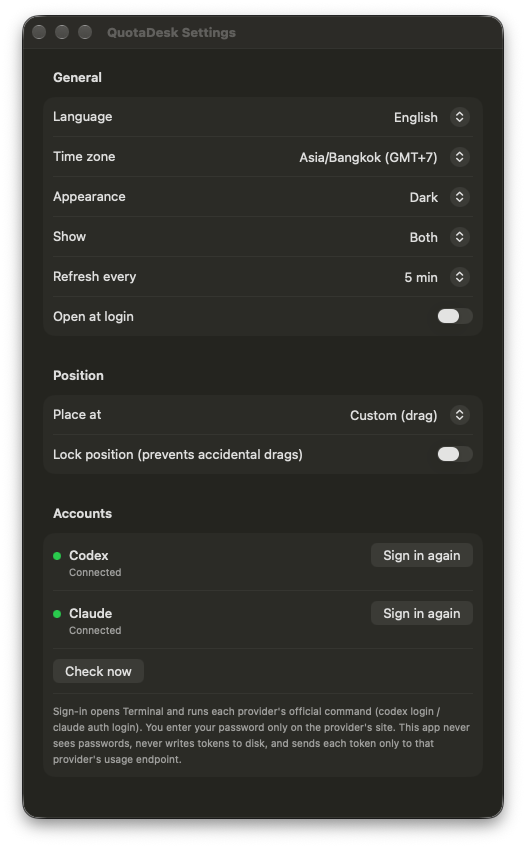
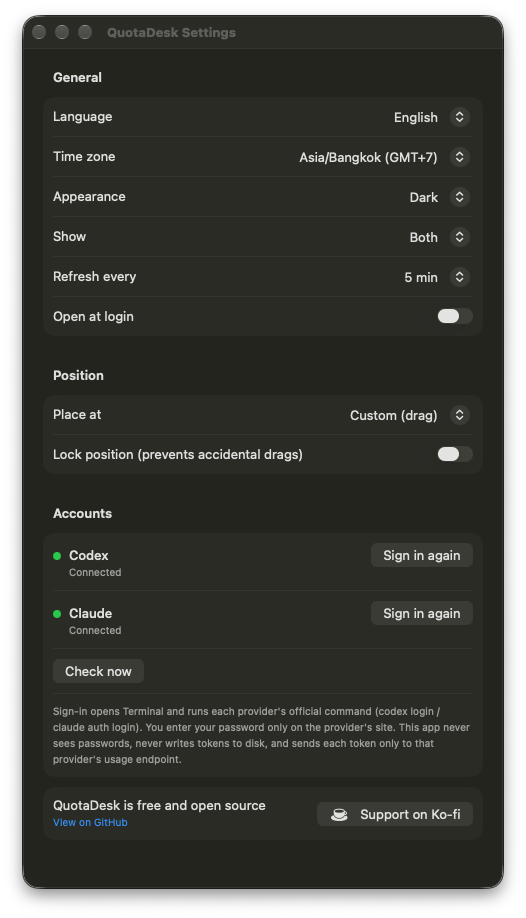
Add Ko-fi support links
- Settings: a quiet "free and open source" row with GitHub and Ko-fi links
- README: Ko-fi badge and a bilingual Support section
- .github/FUNDING.yml enables GitHub's Sponsor button
- Settings window height caps at the screen height on small displays

diff --git a/QuotaDesk.swift b/QuotaDesk.swift
@@ -588,6 +588,8 @@ struct WidgetView: View {
 // MARK: - Settings window
 
 struct SettingsView: View {
+    static let repoURL = URL(string: "https://github.com/filmpaisan/QuotaDesk")!
+    static let supportURL = URL(string: "https://ko-fi.com/filmpaisan")!
     @ObservedObject var model: UsageModel
     @ObservedObject var settings = AppSettings.shared
     @State private var launchAtLogin = SMAppService.mainApp.status == .enabled
@@ -646,8 +648,20 @@ struct SettingsView: View {
                        "Sign-in opens Terminal and runs each provider's official command (codex login / claude auth login). You enter your password only on the provider's site. This app never sees passwords, never writes tokens to disk, and sends each token only to that provider's usage endpoint."))
                     .font(.caption).foregroundStyle(.secondary).fixedSize(horizontal: false, vertical: true)
             }
+            Section {
+                HStack {
+                    VStack(alignment: .leading, spacing: 2) {
+                        Text(L("QuotaDesk ใช้ฟรีและเป็นโอเพนซอร์ส", "QuotaDesk is free and open source"))
+                        Link(L("ดูโค้ดบน GitHub", "View on GitHub"), destination: Self.repoURL).font(.caption)
+                    }
+                    Spacer()
+                    Link(destination: Self.supportURL) { Label(L("สนับสนุนผู้พัฒนา", "Support on Ko-fi"), systemImage: "cup.and.saucer.fill") }
+                        .buttonStyle(.bordered)
+                }
+            }
         }
-        .formStyle(.grouped).frame(width: 480, height: 770)
+        // Tall enough for every row, but never taller than a small laptop screen (the form scrolls then).
+        .formStyle(.grouped).frame(width: 480, height: min(840, (NSScreen.main?.visibleFrame.height ?? 900) - 40))
     }
     @ViewBuilder func account(_ provider: Provider, name: String, reading: Reading) -> some View {
         HStack(alignment: .firstTextBaseline) {

diff --git a/README.md b/README.md
@@ -9,6 +9,7 @@
 ![Swift](https://img.shields.io/badge/Swift-SwiftUI-F05138?logo=swift&logoColor=white)
 ![License: MIT](https://img.shields.io/badge/License-MIT-2ea44f)
 ![Languages](https://img.shields.io/badge/UI-English%20%7C%20%E0%B9%84%E0%B8%97%E0%B8%A2-4c8eda)
+[![Ko-fi](https://img.shields.io/badge/Ko--fi-Support-FF5E5B?logo=ko-fi&logoColor=white)](https://ko-fi.com/filmpaisan)
 
 [English](#english) · [ภาษาไทย](#ภาษาไทย)
 
@@ -178,6 +179,16 @@ curl -fsSL https://raw.githubusercontent.com/filmpaisan/QuotaDesk/main/install.s
 > แนะนำให้ใช้คำสั่งติดตั้งแทนการแจกไฟล์ `.app` ที่ build แล้ว ไฟล์ `.app` ที่ดาวน์โหลดไปลงนามแบบ ad-hoc เท่านั้น ผู้รับต้องคลิกขวา → **Open** ในครั้งแรก
 
 ---
+
+## Support · สนับสนุน
+
+QuotaDesk is free and always will be. If it saves you a trip to the usage page, you can buy me a coffee. Thank you! 🙏
+
+QuotaDesk ใช้ฟรีตลอดไป ถ้ามีประโยชน์กับคุณ เลี้ยงกาแฟผู้พัฒนาได้ที่ลิงก์ด้านล่าง ขอบคุณครับ 🙏
+
+<a href="https://ko-fi.com/filmpaisan"><img src="https://ko-fi.com/img/githubbutton_sm.svg" alt="Support me on Ko-fi" height="36"></a>
+
+Bug reports and ideas are welcome too: [open an issue](https://github.com/filmpaisan/QuotaDesk/issues). · แจ้งบั๊กหรือเสนอไอเดียได้ที่ [Issues](https://github.com/filmpaisan/QuotaDesk/issues)
 
 ## Disclaimer · ข้อสงวนสิทธิ์
 
